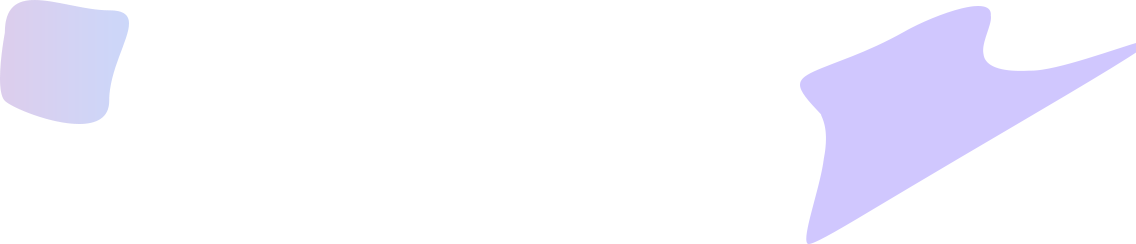
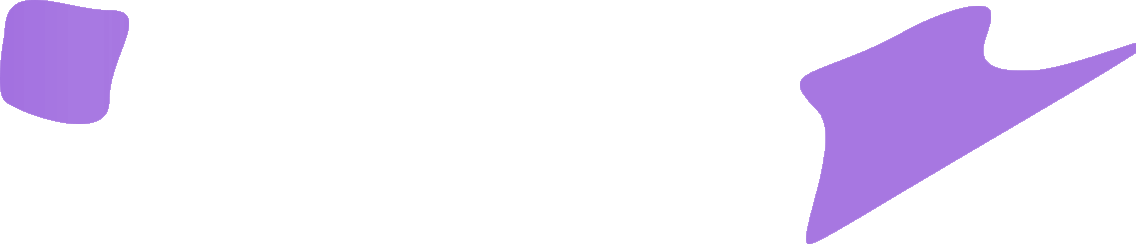
Fixing Welcome View

Changed region(s): [[0.6778, 0.0287, 1.0, 1.0], [0.0, 0.0, 0.1232, 0.5164]]

diff --git a/public/assets/css/templatemo-chain-app-dev.css b/public/assets/css/templatemo-chain-app-dev.css
@@ -320,11 +320,7 @@ body {
     text-transform: capitalize;
     font-size: 15px;
     background: rgb(19, 175, 240);
-    background: linear-gradient(
-        105deg,
-        rgb(115 37 237) 0%,
-        rgb(152 121 237) 100%
-    );
+    background: linear-gradient(90deg, rgb(115 37 237) 0%, #a86ef4 100%);
     border-radius: 23px;
     font-weight: 500 !important;
     letter-spacing: 0.3px !important;
@@ -435,6 +431,7 @@ header
 }
 
 .header-area .main-nav .logo {
+    margin-left: 2rem;
     line-height: 100px;
     float: left;
     -webkit-transition: all 0.3s ease 0s;

diff --git a/resources/views/welcome.blade.php b/resources/views/welcome.blade.php
@@ -46,7 +46,7 @@
           <nav class="main-nav">
             <!-- ***** Logo Start ***** -->
             <a class="logo" href="/home">
-              <img src="{{ asset('material/img/logo-chatinity-negro.svg') }}" style="width: 42px; height:42px;" />
+              <img src="assets/images/logo-fade-violet.svg" style="width: 42px; height:42px;" />
             </a>
             <!-- ***** Logo End ***** -->
             <!-- ***** Menu Start ***** -->
@@ -112,32 +112,25 @@
     </div>
     <div class="container">
       <div class="row">
-        <div class="col-lg-3">
+        <div class="col-lg-4">
           <div class="service-item second-service">
             <div class="icon"></div>
-            <h4>Rocket Speed of App</h4>
-            <p>You are allowed to use the Chain App Dev HTML template. Feel free to modify or edit this layout.</p>
+            <h4>Chat in Real Time</h4>
+            <p>You are allowed to chat with everyone you want. Just join the chat and start a conversation with somebody!</p>
           </div>
         </div>
-        <div class="col-lg-3">
-          <div class="service-item second-service">
-            <div class="icon"></div>
-            <h4>Rocket Speed of App</h4>
-            <p>You are allowed to use the Chain App Dev HTML template. Feel free to modify or edit this layout.</p>
-          </div>
-        </div>
-        <div class="col-lg-3">
+        <div class="col-lg-4">
           <div class="service-item third-service">
             <div class="icon"></div>
-            <h4>Multi Workflow Idea</h4>
-            <p>If this template is beneficial for your work, please support us <a rel="nofollow" href="https://paypal.me/templatemo" target="_blank">a little via PayPal</a>. Thank you.</p>
+            <h4>Inmortalize Your Memories</h4>
+            <p>Don't let your memories be forgotten in time. Upload everything you want to your profile and share it with everyone.</p>
           </div>
         </div>
-        <div class="col-lg-3">
+        <div class="col-lg-4">
           <div class="service-item fourth-service">
             <div class="icon"></div>
-            <h4>24/7 Help &amp; Support</h4>
-            <p>Lorem ipsum dolor consectetur adipiscing elit sedder williamsburg photo booth quinoa and fashion axe.</p>
+            <h4>Build a Comunity</h4>
+            <p>We are more than 10K users registered on Chatinity in less than 365 days. We can't wait for you, welcome to the comunity!</p>
           </div>
         </div>
       </div>

diff --git a/resources/views/layouts/navbars/navs/guest.blade.php b/resources/views/layouts/navbars/navs/guest.blade.php
@@ -3,7 +3,7 @@
   <div class="container">
     <div class="navbar-wrapper">
       <a class="navbar-brand" href="/" style="color: white;">
-        <img src="{{ asset('material/img/logo-chatinity-blanco.svg') }}" style="width: 24px; height:24px;" />
+        <img src="assets/images/logo-fade-violet.svg" style="width: 24px; height:24px;" />
         Chatinity
       </a>
     </div>
